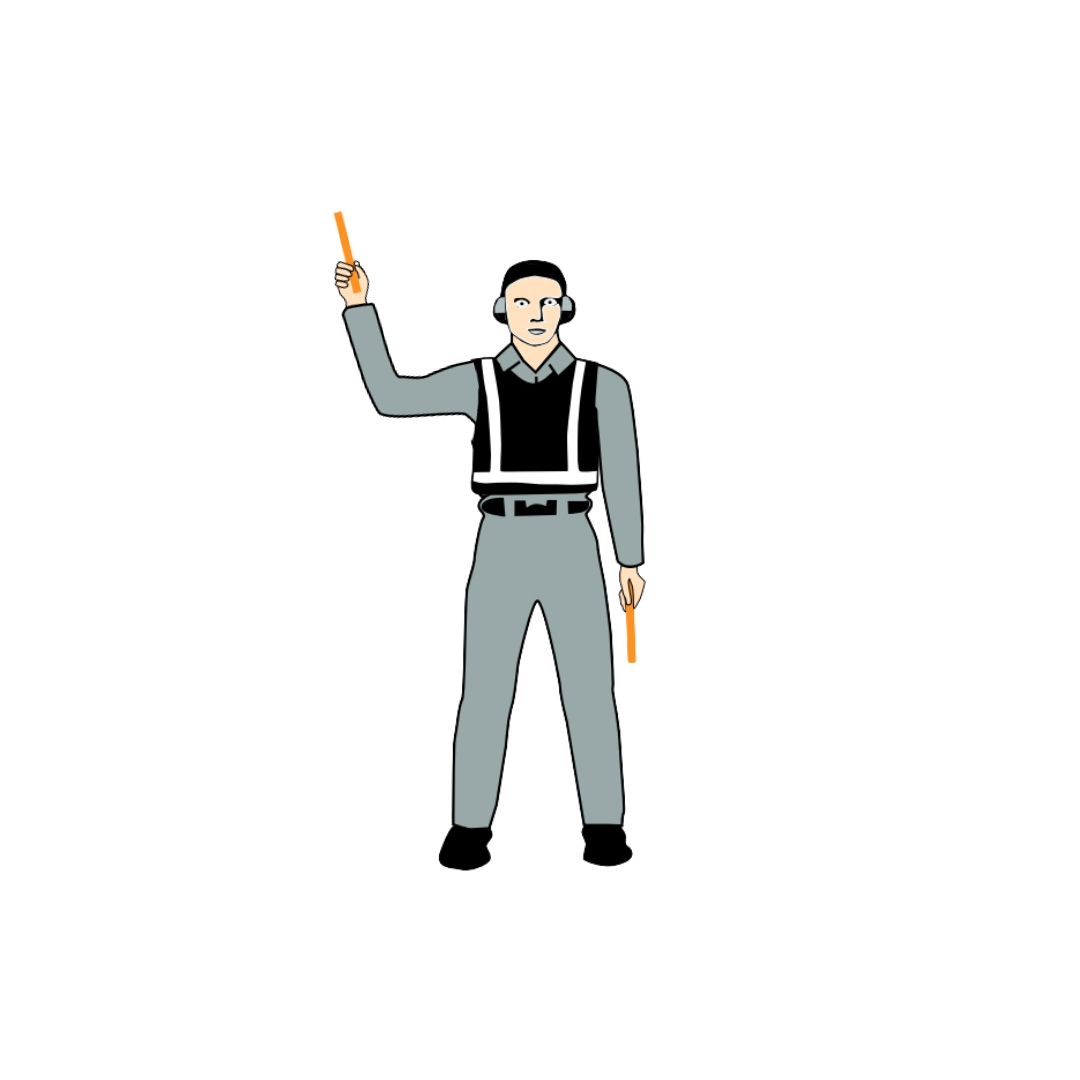
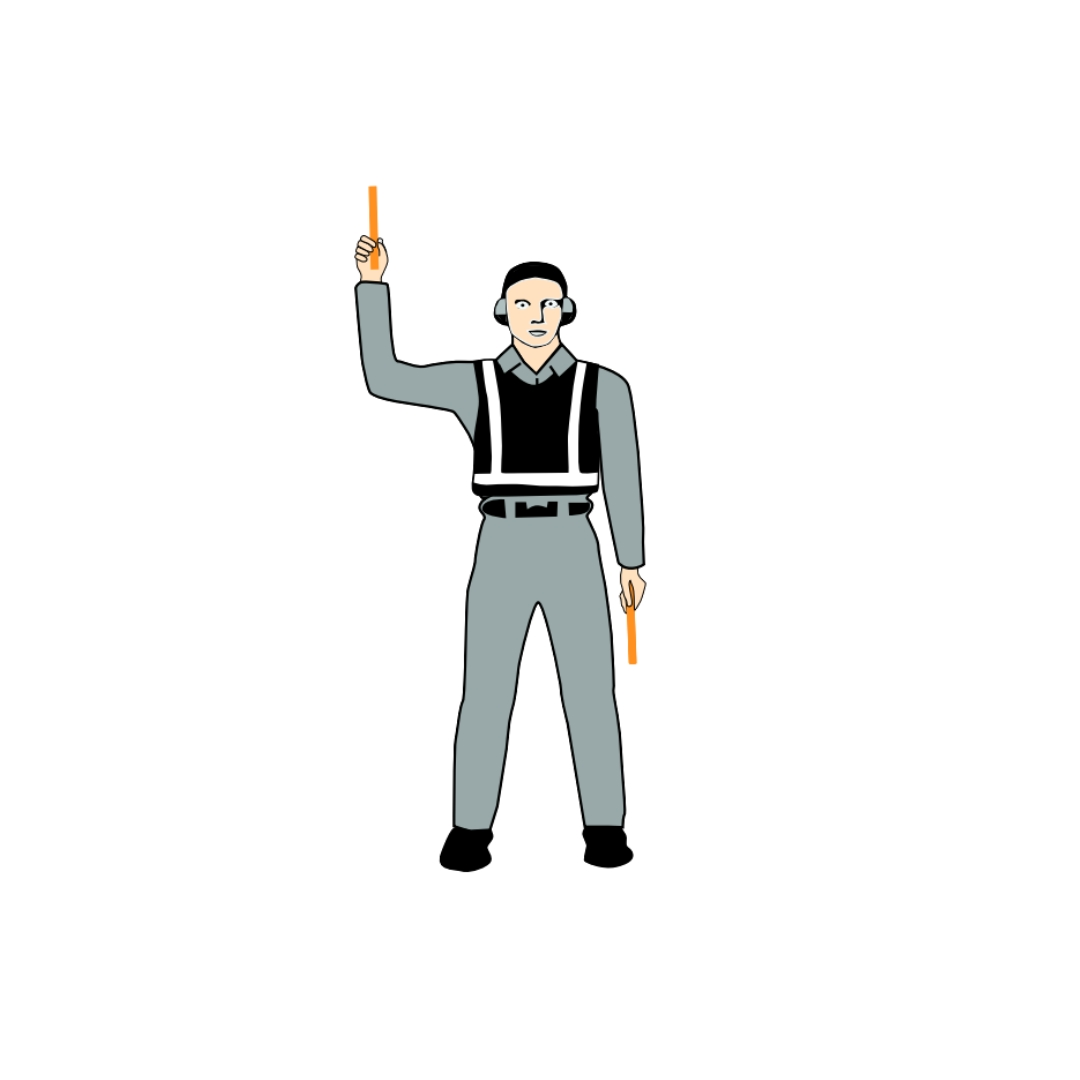
Added visual instruction offset

diff --git a/User Interface/main2.py b/User Interface/main2.py
@@ -140,28 +140,54 @@ class Game:
         )
 
         # Guide
-        self.guide_position = [0, self.lp_top_rect.bottom]
+        self.guide_position = [0, 0]
         self.guide_videos = {}
-        actions = [
+        self.actions = [
             "straight_ahead", "turn_left", "turn_right", "stop", "cut_engine",
             "start_engine", "set_brakes", "chocks_insterted", "all_clear"]
+        self.current_action = 8
+        offsets = [
+            (54, 10),
+            (54, 10),
+            (74, 10),
+            (66, 12),
+            (122, 55),
+            (56, 0),
+            (62, 0), 
+            (53, 0),
+            (54, 0)
+        ]
+        video_sizes = [
+            450,
+            450,
+            450,
+            450,
+            570,
+            430, 
+            450, 
+            430,
+            430
+        ]
 
-        for action in actions:
+        for action, offset, size in zip(self.actions, offsets, video_sizes):
             action_dir = os.path.join(f"{resources_path}/guide/{action}")
-            
-            # frames = [pygame.image.load(f"{action_dir}/{file}").convert() for file in os.listdir(action_dir)]
             frame_paths = sorted(
                 [os.path.join(action_dir, f) for f in os.listdir(action_dir) if f.endswith(".jpg")])
             frames = []
             for path in frame_paths:
                 img = pygame.image.load(path).convert()
-                original_size = img.get_size()
-                original_size = (300, 300)
+                if action == "turn_right":
+                    img = pygame.transform.flip(img, True, False)  # Flip horizontally only
+                original_size = (size, size)
                 scaled_size = (int(original_size[0] * self.scale), int(original_size[1] * self.scale))
                 img_scaled = pygame.transform.smoothscale(img, scaled_size)
                 frames.append(img_scaled)
 
-            self.guide_videos[action] = (frames, tuple(self.guide_position))
+            x, y = self.guide_position
+            x_offset, y_offset = offset
+            x = (x - x_offset) * self.scale
+            y = (y - y_offset) * self.scale
+            self.guide_videos[action] = (frames, (x, y))
 
     def update_frame(self):
         ret, frame = self.cap.read()
@@ -191,16 +217,14 @@ class Game:
         border_width = max(1, round(2 * self.scale))
 
         if self.frame_surface:     
+            # Draw guide
+            self.draw_guide_animation(win, self.actions[self.current_action])
+
             scaled_frame = pygame.transform.smoothscale(self.frame_surface, self.frame_draw_size)
             win.blit(scaled_frame, self.frame_draw_pos)
 
             pygame.draw.rect(win, (192, 192, 192), self.rp_top_rect)
             pygame.draw.rect(win, (119, 163, 200), self.lp_top_rect)
-
-            # Draw guide
-            self.draw_guide_animation(win, "")
-
-            pygame.draw.line(win, (0, 0, 0), (self.lp_top_rect.centerx, 0), (self.lp_top_rect.centerx, 360 * self.scale))
 
             # Draw text
             for surface, pos in self.prediction_text_surfaces:
@@ -218,7 +242,6 @@ class Game:
         pygame.display.update()
 
     def draw_guide_animation(self, screen, action, frame_delay=5):
-        action = "straight_ahead"
         if not hasattr(self, 'guide_frame_counters'):
             self.guide_frame_counters = {}
             self.guide_frame_timers = {}
@@ -256,7 +279,6 @@ class Game:
 
 def game_loop():
     run = True
-
     while run:
         for event in pygame.event.get():
             if event.type == pygame.QUIT:
@@ -274,7 +296,12 @@ def game_loop():
 
             elif event.type == pygame.MOUSEBUTTONDOWN:
                 btn_label = game.button_down_detection(mouse_pos)
-                print(btn_label)
+
+            elif event.type == pygame.KEYDOWN:
+                if event.key == pygame.K_w:
+                    game.current_action += 1
+                    if game.current_action >= len(game.actions):
+                        game.current_action = 0
 
         mouse_pos = pygame.mouse.get_pos()
         game.button_over_detection(mouse_pos)
